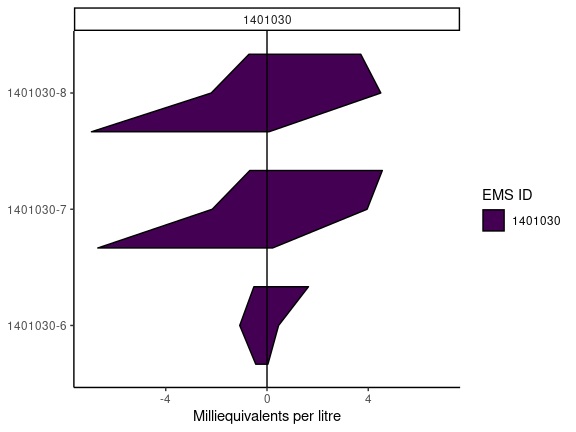
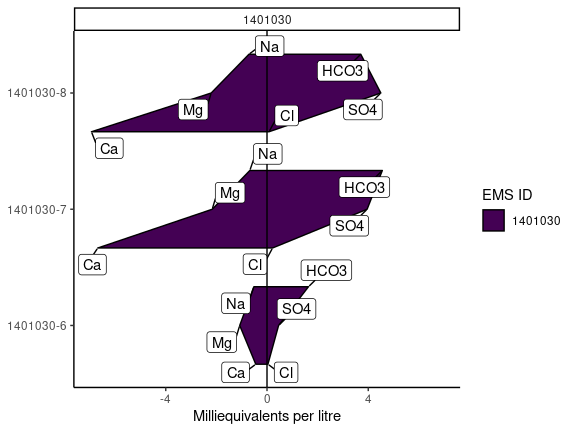
Update Docs

diff --git a/docs/index.html b/docs/index.html
@@ -33,7 +33,7 @@
       </button>
       <span class="navbar-brand">
         <a class="navbar-link" href="index.html">rems2aquachem</a>
-        <span class="version label label-default" data-toggle="tooltip" data-placement="bottom" title="Released version">0.3.1</span>
+        <span class="version label label-default" data-toggle="tooltip" data-placement="bottom" title="Released version">0.4.2</span>
       </span>
     </div>
 
@@ -147,44 +147,37 @@
 <code class="sourceCode R"><span class="kw"><a href="https://rdrr.io/r/base/library.html">library</a></span><span class="op">(</span><span class="va">rems2aquachem</span><span class="op">)</span>
 <span class="va">r</span> <span class="op">&lt;-</span> <span class="fu"><a href="reference/rems_to_aquachem.html">rems_to_aquachem</a></span><span class="op">(</span>ems_ids <span class="op">=</span> <span class="fu"><a href="https://rdrr.io/r/base/c.html">c</a></span><span class="op">(</span><span class="st">"1401030"</span>, <span class="st">"1401377"</span>, <span class="st">"E292373"</span><span class="op">)</span><span class="op">)</span>
 <span class="co">#&gt; Checking for locally stored historical data...</span>
-<span class="co">#&gt; Last download was 9 days ago</span>
+<span class="co">#&gt; Last download was 112 days ago</span>
 <span class="co">#&gt; If you would like to update historical data, run 'rems::download_historic_data()'</span>
 <span class="co">#&gt; Checking for locally stored recent data...</span>
 <span class="co">#&gt; Fetching data from cache...</span>
 <span class="va">r</span>
-<span class="co">#&gt; # A tibble: 16 x 170</span>
-<span class="co">#&gt;    Sample_Date  SampleID   Coord_Lat Project   Coord_Long StationID Watertype  Analysis_Date shortWatertype Comment</span>
-<span class="co">#&gt;    &lt;chr&gt;        &lt;chr&gt;      &lt;chr&gt;     &lt;chr&gt;     &lt;chr&gt;      &lt;chr&gt;     &lt;chr&gt;      &lt;chr&gt;         &lt;chr&gt;          &lt;chr&gt;  </span>
-<span class="co">#&gt;  1 ""           ""         °         ""        °          ""        ""         ""            ""             ""     </span>
-<span class="co">#&gt;  2 "1987-07-07" "1401030-… 49.2064   "BACKGRO… -119.8228  "075"     "Fresh Wa…  &lt;NA&gt;          &lt;NA&gt;           &lt;NA&gt;  </span>
-<span class="co">#&gt;  3 "1991-08-07" "1401030-… 49.2064   "BACKGRO… -119.8228  "075"     "Fresh Wa…  &lt;NA&gt;          &lt;NA&gt;           &lt;NA&gt;  </span>
-<span class="co">#&gt;  4 "1994-06-08" "1401030-… 49.2064   "BACKGRO… -119.8228  "075"     "Fresh Wa…  &lt;NA&gt;          &lt;NA&gt;           &lt;NA&gt;  </span>
-<span class="co">#&gt;  5 "2001-09-09" "1401030-… 49.2064   "BACKGRO… -119.8228  "075"     "Fresh Wa…  &lt;NA&gt;          &lt;NA&gt;           &lt;NA&gt;  </span>
-<span class="co">#&gt;  6 "2009-11-11" "1401030-… 49.2064   "BACKGRO… -119.8228  "075"     "Fresh Wa…  &lt;NA&gt;          &lt;NA&gt;           &lt;NA&gt;  </span>
-<span class="co">#&gt;  7 "2010-08-09" "1401030-… 49.2064   "BACKGRO… -119.8228  "075"     "Fresh Wa…  &lt;NA&gt;          &lt;NA&gt;           &lt;NA&gt;  </span>
-<span class="co">#&gt;  8 "2016-11-02" "1401030-… 49.2064   "BACKGRO… -119.8228  "075"     "Fresh Wa…  &lt;NA&gt;          &lt;NA&gt;           &lt;NA&gt;  </span>
-<span class="co">#&gt;  9 "2018-06-14" "1401030-… 49.2064   "BACKGRO… -119.8228  "075"     "Ground W…  &lt;NA&gt;          &lt;NA&gt;           &lt;NA&gt;  </span>
-<span class="co">#&gt; 10 "1987-07-07" "1401377-… 49.175    "BACKGRO… -119.7353  "203"     "Fresh Wa…  &lt;NA&gt;          &lt;NA&gt;           &lt;NA&gt;  </span>
-<span class="co">#&gt; 11 "1989-10-11" "1401377-… 49.175    "BACKGRO… -119.7353  "203"     "Fresh Wa…  &lt;NA&gt;          &lt;NA&gt;           &lt;NA&gt;  </span>
-<span class="co">#&gt; 12 "1994-03-24" "1401377-… 49.175    "BACKGRO… -119.7353  "203"     "Fresh Wa…  &lt;NA&gt;          &lt;NA&gt;           &lt;NA&gt;  </span>
-<span class="co">#&gt; 13 "2016-11-02" "1401377-… 49.175    "BACKGRO… -119.7353  "203"     "Fresh Wa…  &lt;NA&gt;          &lt;NA&gt;           &lt;NA&gt;  </span>
-<span class="co">#&gt; 14 "2020-06-29" "1401377-… 49.175    "BACKGRO… -119.7353  "203"     "Ground W…  &lt;NA&gt;          &lt;NA&gt;           &lt;NA&gt;  </span>
-<span class="co">#&gt; 15 "2015-03-06" "E292373-… 49.364604 "GROUNDW… -124.6141… "426"     "Fresh Wa…  &lt;NA&gt;          &lt;NA&gt;           &lt;NA&gt;  </span>
-<span class="co">#&gt; 16 "2017-10-11" "E292373-… 49.364604 "GROUNDW… -124.6141… "426"     "Fresh Wa…  &lt;NA&gt;          &lt;NA&gt;           &lt;NA&gt;  </span>
-<span class="co">#&gt; # … with 160 more variables: Reference &lt;chr&gt;, Quality_control &lt;chr&gt;, Duplicate_ID &lt;chr&gt;, Labcode &lt;chr&gt;,</span>
-<span class="co">#&gt; #   Location &lt;chr&gt;, Geology &lt;chr&gt;, X &lt;chr&gt;, Y &lt;chr&gt;, Elevation &lt;chr&gt;, Well_Depth &lt;chr&gt;, Screen_Top &lt;chr&gt;,</span>
-<span class="co">#&gt; #   Screen_Mid &lt;chr&gt;, Screen_Bottom &lt;chr&gt;, Gradient &lt;chr&gt;, Station_Comment &lt;chr&gt;, Sample_Depth &lt;chr&gt;, Temp &lt;chr&gt;,</span>
-<span class="co">#&gt; #   14C &lt;chr&gt;, 18O &lt;chr&gt;, 2H &lt;chr&gt;, Ag_diss &lt;chr&gt;, Ag_tot &lt;chr&gt;, Al_diss &lt;chr&gt;, Al_tot &lt;chr&gt;, anion_sum &lt;chr&gt;,</span>
-<span class="co">#&gt; #   As_diss &lt;chr&gt;, As_tot &lt;chr&gt;, B &lt;chr&gt;, B_tot &lt;chr&gt;, Ba &lt;chr&gt;, Ba_tot &lt;chr&gt;, Benzene &lt;chr&gt;, Br &lt;chr&gt;, Ca &lt;chr&gt;,</span>
-<span class="co">#&gt; #   Ca_tot &lt;chr&gt;, cation_sum &lt;chr&gt;, Cd_diss &lt;chr&gt;, Cd_tot &lt;chr&gt;, charge_balance &lt;chr&gt;, Cl &lt;chr&gt;, CN_diss &lt;chr&gt;,</span>
-<span class="co">#&gt; #   CN_tot &lt;chr&gt;, Co_diss &lt;chr&gt;, Co_tot &lt;chr&gt;, CO3 &lt;chr&gt;, Cond &lt;chr&gt;, Cond_field &lt;chr&gt;, Cr_diss &lt;chr&gt;,</span>
-<span class="co">#&gt; #   Cr_III_diss &lt;chr&gt;, Cr_tot &lt;chr&gt;, Cr_VI_diss &lt;chr&gt;, Cu_diss &lt;chr&gt;, Cu_tot &lt;chr&gt;, Density &lt;chr&gt;, DO &lt;chr&gt;,</span>
-<span class="co">#&gt; #   Eh &lt;chr&gt;, Ethylbenzene &lt;chr&gt;, F &lt;chr&gt;, Fe_diss &lt;chr&gt;, Fe_II_diss &lt;chr&gt;, Fe_III_diss &lt;chr&gt;, Fe_tot &lt;chr&gt;,</span>
-<span class="co">#&gt; #   HCO3 &lt;chr&gt;, Hg_diss &lt;chr&gt;, Hg_tot &lt;chr&gt;, K &lt;chr&gt;, K_tot &lt;chr&gt;, Li &lt;chr&gt;, Li_tot &lt;chr&gt;, Meas_Alk &lt;chr&gt;,</span>
-<span class="co">#&gt; #   Meas_Hardness &lt;chr&gt;, Mg &lt;chr&gt;, Mg_tot &lt;chr&gt;, Mn_diss &lt;chr&gt;, Mn_tot &lt;chr&gt;, Mo_diss &lt;chr&gt;, Mo_tot &lt;chr&gt;,</span>
-<span class="co">#&gt; #   Na &lt;chr&gt;, Na_tot &lt;chr&gt;, NH4 &lt;chr&gt;, Ni_diss &lt;chr&gt;, Ni_tot &lt;chr&gt;, NO2 &lt;chr&gt;, NO3 &lt;chr&gt;, Pb_diss &lt;chr&gt;,</span>
-<span class="co">#&gt; #   Pb_tot &lt;chr&gt;, PCE &lt;chr&gt;, pH_field &lt;chr&gt;, pH_lab &lt;chr&gt;, Sb_diss &lt;chr&gt;, Sb_tot &lt;chr&gt;, Se_diss &lt;chr&gt;,</span>
-<span class="co">#&gt; #   Se_tot &lt;chr&gt;, Si &lt;chr&gt;, Si_tot &lt;chr&gt;, SO4 &lt;chr&gt;, Sr &lt;chr&gt;, Sr_tot &lt;chr&gt;, TCE &lt;chr&gt;, Tl_diss &lt;chr&gt;, …</span></code></pre></div>
+<span class="co">#&gt; # A tibble: 16 × 177</span>
+<span class="co">#&gt;    Sample_Date  SampleID    Coord_Lat Project       Coord_Long StationID Watertype Analysis_Date shortWatertype</span>
+<span class="co">#&gt;    &lt;chr&gt;        &lt;chr&gt;       &lt;chr&gt;     &lt;chr&gt;         &lt;chr&gt;      &lt;chr&gt;     &lt;chr&gt;     &lt;chr&gt;         &lt;chr&gt;         </span>
+<span class="co">#&gt;  1 ""           ""          °         ""            °          ""        ""        ""            ""            </span>
+<span class="co">#&gt;  2 "1987-07-07" "1401030-1" 49.2064   "BACKGROUND"  -119.8228  "075"     "Fresh W…  &lt;NA&gt;          &lt;NA&gt;         </span>
+<span class="co">#&gt;  3 "1991-08-07" "1401030-2" 49.2064   "BACKGROUND"  -119.8228  "075"     "Fresh W…  &lt;NA&gt;          &lt;NA&gt;         </span>
+<span class="co">#&gt;  4 "1994-06-08" "1401030-3" 49.2064   "BACKGROUND"  -119.8228  "075"     "Fresh W…  &lt;NA&gt;          &lt;NA&gt;         </span>
+<span class="co">#&gt;  5 "2001-09-09" "1401030-4" 49.2064   "BACKGROUND"  -119.8228  "075"     "Fresh W…  &lt;NA&gt;          &lt;NA&gt;         </span>
+<span class="co">#&gt;  6 "2009-11-11" "1401030-5" 49.2064   "BACKGROUND"  -119.8228  "075"     "Fresh W…  &lt;NA&gt;          &lt;NA&gt;         </span>
+<span class="co">#&gt;  7 "2010-08-09" "1401030-6" 49.2064   "BACKGROUND"  -119.8228  "075"     "Fresh W…  &lt;NA&gt;          &lt;NA&gt;         </span>
+<span class="co">#&gt;  8 "2016-11-02" "1401030-7" 49.2064   "BACKGROUND"  -119.8228  "075"     "Fresh W…  &lt;NA&gt;          &lt;NA&gt;         </span>
+<span class="co">#&gt;  9 "2018-06-14" "1401030-8" 49.2064   "BACKGROUND"  -119.8228  "075"     "Ground …  &lt;NA&gt;          &lt;NA&gt;         </span>
+<span class="co">#&gt; 10 "1987-07-07" "1401377-1" 49.175    "BACKGROUND"  -119.7353  "203"     "Fresh W…  &lt;NA&gt;          &lt;NA&gt;         </span>
+<span class="co">#&gt; 11 "1989-10-11" "1401377-2" 49.175    "BACKGROUND"  -119.7353  "203"     "Fresh W…  &lt;NA&gt;          &lt;NA&gt;         </span>
+<span class="co">#&gt; 12 "1994-03-24" "1401377-3" 49.175    "BACKGROUND"  -119.7353  "203"     "Fresh W…  &lt;NA&gt;          &lt;NA&gt;         </span>
+<span class="co">#&gt; 13 "2016-11-02" "1401377-4" 49.175    "BACKGROUND"  -119.7353  "203"     "Fresh W…  &lt;NA&gt;          &lt;NA&gt;         </span>
+<span class="co">#&gt; 14 "2020-06-29" "1401377-5" 49.175    "BACKGROUND"  -119.7353  "203"     "Ground …  &lt;NA&gt;          &lt;NA&gt;         </span>
+<span class="co">#&gt; 15 "2015-03-06" "E292373-1" 49.364604 "GROUNDWATER" -124.6141… "426"     "Fresh W…  &lt;NA&gt;          &lt;NA&gt;         </span>
+<span class="co">#&gt; 16 "2017-10-11" "E292373-2" 49.364604 "GROUNDWATER" -124.6141… "426"     "Fresh W…  &lt;NA&gt;          &lt;NA&gt;         </span>
+<span class="co">#&gt; # … with 168 more variables: Comment &lt;chr&gt;, Reference &lt;chr&gt;, Quality_control &lt;chr&gt;, Duplicate_ID &lt;chr&gt;,</span>
+<span class="co">#&gt; #   Labcode &lt;chr&gt;, Location &lt;chr&gt;, Geology &lt;chr&gt;, X &lt;chr&gt;, Y &lt;chr&gt;, Elevation &lt;chr&gt;, Well_Depth &lt;chr&gt;,</span>
+<span class="co">#&gt; #   Screen_Top &lt;chr&gt;, Screen_Mid &lt;chr&gt;, Screen_Bottom &lt;chr&gt;, Gradient &lt;chr&gt;, Station_Comment &lt;chr&gt;,</span>
+<span class="co">#&gt; #   Sample_Depth &lt;chr&gt;, Temp &lt;chr&gt;, 14C &lt;chr&gt;, 18O &lt;chr&gt;, 2H &lt;chr&gt;, Ag_diss &lt;chr&gt;, Ag_tot &lt;chr&gt;,</span>
+<span class="co">#&gt; #   Al_diss &lt;chr&gt;, Al_tot &lt;chr&gt;, anion_sum &lt;chr&gt;, As_diss &lt;chr&gt;, As_tot &lt;chr&gt;, B &lt;chr&gt;, B_tot &lt;chr&gt;,</span>
+<span class="co">#&gt; #   Ba &lt;chr&gt;, Ba_tot &lt;chr&gt;, Benzene &lt;chr&gt;, Br &lt;chr&gt;, Ca &lt;chr&gt;, Ca_tot &lt;chr&gt;, cation_sum &lt;chr&gt;,</span>
+<span class="co">#&gt; #   Cd_diss &lt;chr&gt;, Cd_tot &lt;chr&gt;, charge_balance &lt;chr&gt;, Cl &lt;chr&gt;, CN_diss &lt;chr&gt;, CN_tot &lt;chr&gt;, …</span></code></pre></div>
 <p>Create plots</p>
 <div class="sourceCode" id="cb8"><pre class="downlit sourceCode r">
 <code class="sourceCode R"><span class="fu"><a href="reference/piper_plot.html">piper_plot</a></span><span class="op">(</span><span class="va">r</span>, ems_id <span class="op">=</span> <span class="st">"1401030"</span><span class="op">)</span></code></pre></div>

diff --git a/docs/reference/rems_to_aquachem.html b/docs/reference/rems_to_aquachem.html
@@ -72,7 +72,7 @@
       </button>
       <span class="navbar-brand">
         <a class="navbar-link" href="../index.html">rems2aquachem</a>
-        <span class="version label label-default" data-toggle="tooltip" data-placement="bottom" title="Released version">0.3.1</span>
+        <span class="version label label-default" data-toggle="tooltip" data-placement="bottom" title="Released version">0.4.2</span>
       </span>
     </div>
 
@@ -166,15 +166,7 @@ aquachem_DATE.csv</p></td>
   This is how you tell the function where to store the aquachem data.</p>
 
     <h2 class="hasAnchor" id="examples"><a class="anchor" href="#examples"></a>Examples</h2>
-    <pre class="examples">rems_to_aquachem,Fetch and convert data from rems to AquaChem format,Fetch and convert data from rems to AquaChem format — rems_to_aquachem,rems_to_aquachem.Rd,character(0),rems_to_aquachem,character(0),list(title = "Description", contents = "<p>Fetch and convert data from rems to AquaChem format</p>"),list(description = "Fetch and convert data from rems to AquaChem format"),<span class='fu'>rems_to_aquachem</span><span class='op'>(</span>
-  <span class='va'>ems_ids</span>,
-  date_range <span class='op'>=</span> <span class='cn'>NULL</span>,
-  save <span class='op'>=</span> <span class='cn'>TRUE</span>,
-  out_folder <span class='op'>=</span> <span class='st'>"./"</span>,
-  out_file <span class='op'>=</span> <span class='cn'>NULL</span>,
-  interactive <span class='op'>=</span> <span class='cn'>TRUE</span>
-<span class='op'>)</span>,list(list(name = "ems_ids", description = "<p>Character vector. Unique EMS ids</p>"), list(name = "date_range", description = "<p>Character vector. Start and end dates (YYYY-MM-DD)</p>"), list(name = "save", description = "<p>Logical. Whether or not to save the data as csv.</p>"), list(name = "out_folder", description = "<p>Character. Where to save data for AquaChem</p>"), list(name = "out_file", description = "<p>Character. What to call data file for AquaChem. Default is\naquachem_DATE.csv</p>"), 
-    list(name = "interactive", description = "<p>Logical. Whether or not to ask when caching data.</p>")),TRUE,<div class='input'><span class='kw'>if</span> <span class='op'>(</span><span class='cn'>FALSE</span><span class='op'>)</span> <span class='op'>{</span>
+    <pre class="examples"><div class='input'><span class='kw'>if</span> <span class='op'>(</span><span class='cn'>FALSE</span><span class='op'>)</span> <span class='op'>{</span>
 <span class='co'># Convert one well and save the data in the working directory</span>
 <span class='fu'>rems_to_aquachem</span><span class='op'>(</span>ems_ids <span class='op'>=</span> <span class='st'>"E289551"</span><span class='op'>)</span>
 
@@ -205,7 +197,7 @@ aquachem_DATE.csv</p></td>
 <span class='fu'><a href='https://rdrr.io/r/base/unlink.html'>unlink</a></span><span class='op'>(</span><span class='fu'><a href='https://rdrr.io/r/base/paste.html'>paste0</a></span><span class='op'>(</span><span class='st'>"aquachem_"</span>, <span class='fu'><a href='https://rdrr.io/r/base/Sys.time.html'>Sys.Date</a></span><span class='op'>(</span><span class='op'>)</span>, <span class='st'>".csv"</span><span class='op'>)</span><span class='op'>)</span>
 <span class='op'>}</span>
 
-</div>,list(list(title = "Value", contents = "<p>Outputs an Excel and a CSV file in the format to import into AquaChem.</p>", slug = "value"), list(title = "Details", contents = "<p>**`out_folder`**\n  This is how you tell the function where to store the aquachem data.</p>", slug = "details")),2021,list(name = "rems2aquachem", version = "0.3.1", authors = "Steffi LaZerte"),list(destination = "dev", mode = "release", version_label = "default", version_tooltip = "Released version", in_dev = FALSE),list(root = "../", title = "rems2aquachem"),list(),list(type = "default", left = "<li>\n  <a href=\"../index.html\">\n    <span class=\"fas fa-home fa-lg\"></span>\n     \n  </a>\n</li>\n<li>\n  <a href=\"../articles/rems2aquachem.html\">Get started</a>\n</li>\n<li>\n  <a href=\"../reference/index.html\">Reference</a>\n</li>\n<li>\n  <a href=\"../news/index.html\">Changelog</a>\n</li>", right = ""),list(.present = TRUE),list(version = "1.6.1"),FALSE</pre>
+</div></pre>
   </div>
   <div class="col-md-3 hidden-xs hidden-sm" id="pkgdown-sidebar">
     <nav id="toc" data-toggle="toc" class="sticky-top">

diff --git a/docs/reference/ac_gui.html b/docs/reference/ac_gui.html
@@ -75,7 +75,7 @@ Shiny app to launch an interactive interface for getting and formating data." />
       </button>
       <span class="navbar-brand">
         <a class="navbar-link" href="../index.html">rems2aquachem</a>
-        <span class="version label label-default" data-toggle="tooltip" data-placement="bottom" title="Released version">0.3.1</span>
+        <span class="version label label-default" data-toggle="tooltip" data-placement="bottom" title="Released version">0.4.2</span>
       </span>
     </div>
 
@@ -128,11 +128,9 @@ Shiny app to launch an interactive interface for getting and formating data.</p>
 
 
     <h2 class="hasAnchor" id="examples"><a class="anchor" href="#examples"></a>Examples</h2>
-    <pre class="examples">ac_gui,REMS to Aquachem GUI
-Shiny app to launch an interactive interface for getting and formating data.,REMS to Aquachem GUI
-Shiny app to launch an interactive interface for getting and formating data. — ac_gui,ac_gui.Rd,character(0),ac_gui,character(0),list(title = "Description", contents = "<p>REMS to Aquachem GUI\nShiny app to launch an interactive interface for getting and formating data.</p>"),list(description = "REMS to Aquachem GUI\nShiny app to launch an interactive interface for getting and formating data."),<span class='fu'>ac_gui</span><span class='op'>(</span><span class='op'>)</span>,<div class='input'><span class='kw'>if</span> <span class='op'>(</span><span class='cn'>FALSE</span><span class='op'>)</span> <span class='fu'>ac_gui</span><span class='op'>(</span><span class='op'>)</span>
+    <pre class="examples"><div class='input'><span class='kw'>if</span> <span class='op'>(</span><span class='cn'>FALSE</span><span class='op'>)</span> <span class='fu'>ac_gui</span><span class='op'>(</span><span class='op'>)</span>
 
-</div>,list(),2021,list(name = "rems2aquachem", version = "0.3.1", authors = "Steffi LaZerte"),list(destination = "dev", mode = "release", version_label = "default", version_tooltip = "Released version", in_dev = FALSE),list(root = "../", title = "rems2aquachem"),list(),list(type = "default", left = "<li>\n  <a href=\"../index.html\">\n    <span class=\"fas fa-home fa-lg\"></span>\n     \n  </a>\n</li>\n<li>\n  <a href=\"../articles/rems2aquachem.html\">Get started</a>\n</li>\n<li>\n  <a href=\"../reference/index.html\">Reference</a>\n</li>\n<li>\n  <a href=\"../news/index.html\">Changelog</a>\n</li>", right = ""),list(.present = TRUE),list(version = "1.6.1"),FALSE</pre>
+</div></pre>
   </div>
   <div class="col-md-3 hidden-xs hidden-sm" id="pkgdown-sidebar">
     <nav id="toc" data-toggle="toc" class="sticky-top">

diff --git a/docs/articles/rems2aquachem.html b/docs/articles/rems2aquachem.html
@@ -31,7 +31,7 @@
       </button>
       <span class="navbar-brand">
         <a class="navbar-link" href="../index.html">rems2aquachem</a>
-        <span class="version label label-default" data-toggle="tooltip" data-placement="bottom" title="Released version">0.3.1</span>
+        <span class="version label label-default" data-toggle="tooltip" data-placement="bottom" title="Released version">0.4.2</span>
       </span>
     </div>
 
@@ -63,7 +63,7 @@
 
       
 
-      </header><script src="rems2aquachem_files/header-attrs-2.7/header-attrs.js"></script><div class="row">
+      </header><script src="rems2aquachem_files/header-attrs-2.9/header-attrs.js"></script><div class="row">
   <div class="col-md-9 contents">
     <div class="page-header toc-ignore">
       <h1 data-toc-skip>Shiny GUI Walkthrough</h1>
@@ -123,10 +123,10 @@
 <h3 class="hasAnchor">
 <a href="#previewing-data" class="anchor"></a>Previewing data</h3>
 <p>You can choose which columns to preview by selecting either “Relevant Columns” (default) or “All Columns”. Relevant columns only show metadata, cations, anions and charge balance. <strong>ALL data is downloaded, this only affects the preview</strong>.</p>
-<p><img src="data_preview.png" width="40%" style="display: block; margin: auto;"></p>
+<p><img src="data_preview2.png" width="40%" style="display: block; margin: auto;"></p>
 <p>The results of your ID, date and data filtering will be available under the <strong>Results</strong> tab.</p>
 <p>You can scroll and sort through the data to ensure you have the data you wanted.</p>
-<p>The <code>charge_balance</code> values will be highlighted in green (value ranges from -10% to 10%) or red (values &lt; -10% or &gt; 10%) to indicate possibly problematic samples</p>
+<p>The <code>charge_balance</code> values will be highlighted in green (value ranges from -10% to 10%) or red (values &lt; -10% or &gt; 10%) to indicate possibly problematic samples. You can chose whether to highlight EMS-calculated charge balances or rems2aquachem-calculated balances by selecting the appropriate option under “Charge Balance to use”.</p>
 <blockquote>
 <p><strong>Note</strong> This may take a few minutes, depending on the amount of data you have requested.</p>
 </blockquote>

diff --git a/docs/reference/charge_balance.html b/docs/reference/charge_balance.html
@@ -72,7 +72,7 @@
       </button>
       <span class="navbar-brand">
         <a class="navbar-link" href="../index.html">rems2aquachem</a>
-        <span class="version label label-default" data-toggle="tooltip" data-placement="bottom" title="Released version">0.3.1</span>
+        <span class="version label label-default" data-toggle="tooltip" data-placement="bottom" title="Released version">0.4.2</span>
       </span>
     </div>
 
@@ -125,7 +125,33 @@
     <colgroup><col class="name" /><col class="desc" /></colgroup>
     <tr>
       <th>d</th>
-      <td><p>AquaChem formatted dataset</p></td>
+      <td><p>AquaChem formatted dataset</p>
+<p>From ALS Global (AquaChem code)</p>
+<p>anion sum = p01/35.45 + p02/48.03 + p03/19 + p04/14.01 + p05/14.01 + p06/50.04</p>
+<p>- P01 = chloride          (Cl)
+- P02 = sulfate           (SO4)
+- P03 = fluoride          (F)
+- P04 = nitrate as N      (NO3)
+- P05 = nitrite as N      (NO2)
+- P06 = alkalinity total  (Meas_Alk)</p>
+<p>cation sum = p01/20.04 + p02/12.16 + p03/22.99 + p04/39.10 + p05/8.99 +
+             p06/31.77 + p07/27.9 + p08/27.47 + p09/32.70 + p10/14.01 +
+             func_pow((10),(-1*p11))*1000</p>
+<p>- P01 = calcium    (Ca)      [dissolved]
+- P02 = magnesium  (Mg)      [dissolved]
+- P03 = sodium     (Na)      [dissolved]
+- P04 = potassium  (K)       [dissolved]
+- P05 = aluminum   (Al_diss) [dissolved]
+- P06 = copper     (Cu_diss) [dissolved]
+- P07 = iron       (Fe_diss) [dissolved]
+- P08 = manganese  (Mn_diss) [dissolved]
+- P09 = zinc       (Zn_diss) [dissolved]
+- P10 = ammonia    (NH4)     [dissolved]
+- P11 = pH         (pH_lab)</p>
+<p>Charge balance = 100 x (Cation Sum - Anion sum) / (Cation Sum + Anion Sum)</p>
+<p>For ALS, the values are converted to MEQ in the equation.</p>
+<p>For charge_balance() some are preconverted `_meq` some are converted in the
+equations.</p></td>
     </tr>
     </table>
 

diff --git a/docs/news/index.html b/docs/news/index.html
@@ -71,7 +71,7 @@
       </button>
       <span class="navbar-brand">
         <a class="navbar-link" href="../index.html">rems2aquachem</a>
-        <span class="version label label-default" data-toggle="tooltip" data-placement="bottom" title="Released version">0.3.1</span>
+        <span class="version label label-default" data-toggle="tooltip" data-placement="bottom" title="Released version">0.4.2</span>
       </span>
     </div>
 
@@ -112,6 +112,21 @@
       
     </div>
 
+    <div id="rems2aquachem-042" class="section level1">
+<h1 class="page-header" data-toc-text="0.4.2">
+<a href="#rems2aquachem-042" class="anchor"></a>rems2aquachem 0.4.2</h1>
+<ul>
+<li>Added custom charge balance calculations (<code>anion_sum2</code>, <code>cation_sum2</code>, <code>charge_balance2</code>) and the option to choose between EMS charge balances and the one calculated here in the Shiny app</li>
+</ul>
+</div>
+    <div id="rems2aquachem-041" class="section level1">
+<h1 class="page-header" data-toc-text="0.4.1">
+<a href="#rems2aquachem-041" class="anchor"></a>rems2aquachem 0.4.1</h1>
+<ul>
+<li>Fixed bug where cation/anion not showing up</li>
+<li>Added labels to stiff plots</li>
+</ul>
+</div>
     <div id="rems2aquachem-040" class="section level1">
 <h1 class="page-header" data-toc-text="0.4.0">
 <a href="#rems2aquachem-040" class="anchor"></a>rems2aquachem 0.4.0</h1>

diff --git a/docs/articles/rems2aquachem_files/header-attrs-2.9/header-attrs.js b/docs/articles/rems2aquachem_files/header-attrs-2.9/header-attrs.js
@@ -1,0 +1,12 @@
+// Pandoc 2.9 adds attributes on both header and div. We remove the former (to
+// be compatible with the behavior of Pandoc < 2.8).
+document.addEventListener('DOMContentLoaded', function(e) {
+  var hs = document.querySelectorAll("div.section[class*='level'] > :first-child");
+  var i, h, a;
+  for (i = 0; i < hs.length; i++) {
+    h = hs[i];
+    if (!/^h[1-6]$/i.test(h.tagName)) continue;  // it should be a header h1-h6
+    a = h.attributes;
+    while (a.length > 0) h.removeAttribute(a[0].name);
+  }
+});

diff --git a/docs/reference/tidyeval.html b/docs/reference/tidyeval.html
@@ -93,7 +93,7 @@ http://rlang.r-lib.org and the Metaprogramming section of Advanced R." />
       </button>
       <span class="navbar-brand">
         <a class="navbar-link" href="../index.html">rems2aquachem</a>
-        <span class="version label label-default" data-toggle="tooltip" data-placement="bottom" title="Released version">0.3.1</span>
+        <span class="version label label-default" data-toggle="tooltip" data-placement="bottom" title="Released version">0.4.2</span>
       </span>
     </div>
 

diff --git a/docs/articles/index.html b/docs/articles/index.html
@@ -71,7 +71,7 @@
       </button>
       <span class="navbar-brand">
         <a class="navbar-link" href="../index.html">rems2aquachem</a>
-        <span class="version label label-default" data-toggle="tooltip" data-placement="bottom" title="Released version">0.3.1</span>
+        <span class="version label label-default" data-toggle="tooltip" data-placement="bottom" title="Released version">0.4.2</span>
       </span>
     </div>
 

diff --git a/docs/reference/check_present.html b/docs/reference/check_present.html
@@ -72,7 +72,7 @@
       </button>
       <span class="navbar-brand">
         <a class="navbar-link" href="../index.html">rems2aquachem</a>
-        <span class="version label label-default" data-toggle="tooltip" data-placement="bottom" title="Released version">0.3.1</span>
+        <span class="version label label-default" data-toggle="tooltip" data-placement="bottom" title="Released version">0.4.2</span>
       </span>
     </div>
 

diff --git a/docs/reference/get_rems.html b/docs/reference/get_rems.html
@@ -72,7 +72,7 @@
       </button>
       <span class="navbar-brand">
         <a class="navbar-link" href="../index.html">rems2aquachem</a>
-        <span class="version label label-default" data-toggle="tooltip" data-placement="bottom" title="Released version">0.3.1</span>
+        <span class="version label label-default" data-toggle="tooltip" data-placement="bottom" title="Released version">0.4.2</span>
       </span>
     </div>
 

diff --git a/docs/reference/index.html b/docs/reference/index.html
@@ -71,7 +71,7 @@
       </button>
       <span class="navbar-brand">
         <a class="navbar-link" href="../index.html">rems2aquachem</a>
-        <span class="version label label-default" data-toggle="tooltip" data-placement="bottom" title="Released version">0.3.1</span>
+        <span class="version label label-default" data-toggle="tooltip" data-placement="bottom" title="Released version">0.4.2</span>
       </span>
     </div>
 
